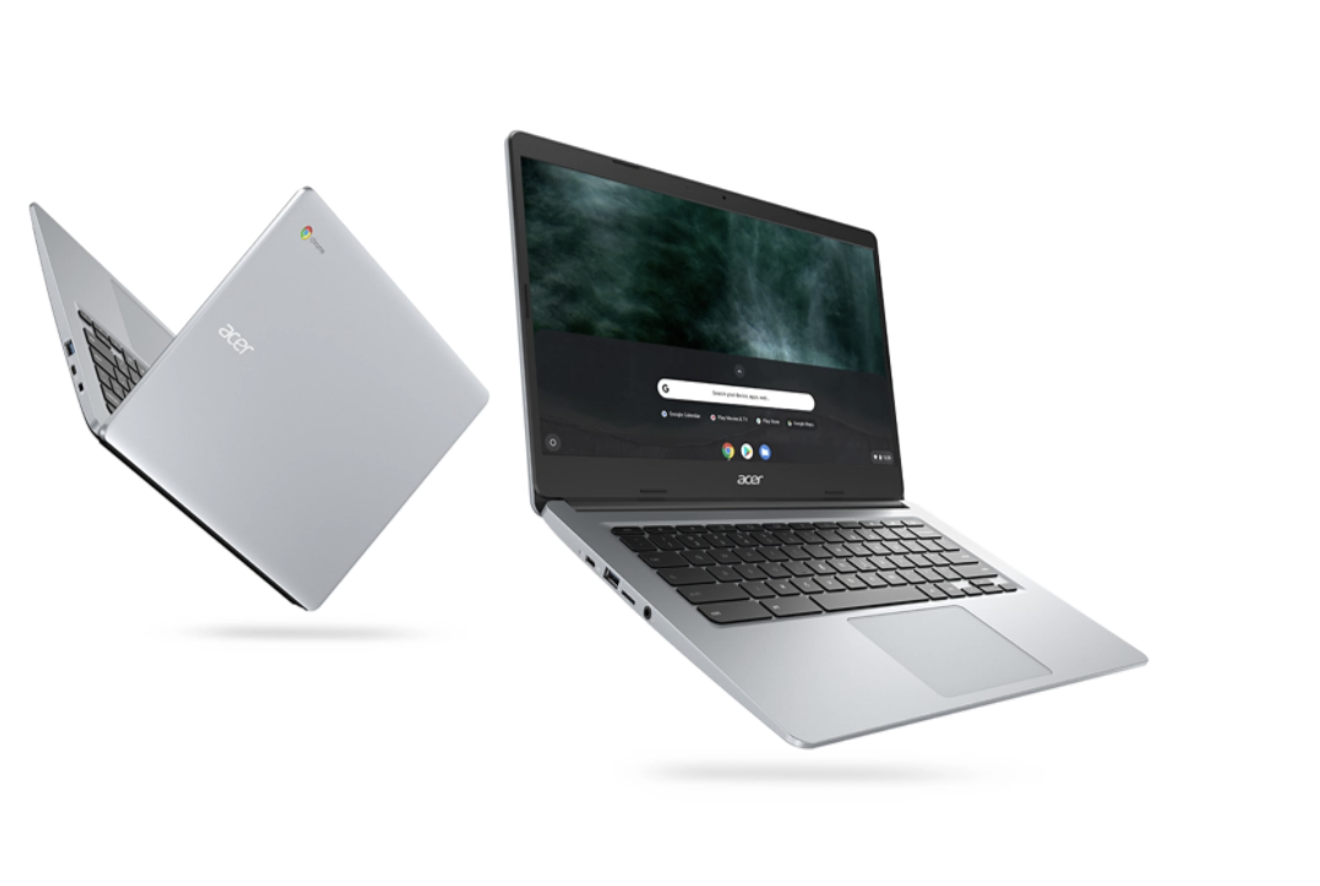
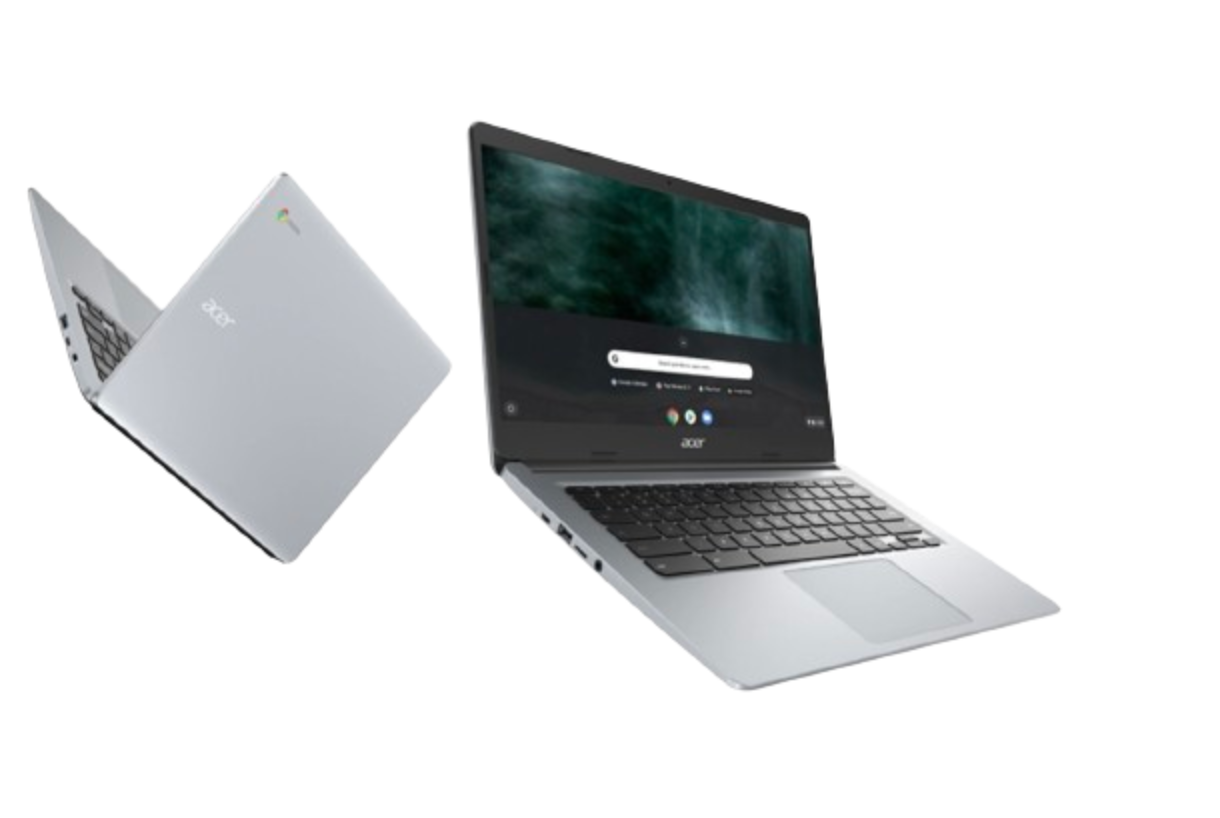
commit

diff --git a/css/index.css b/css/index.css
@@ -1,10 +1,10 @@
 *{
    margin: 0;
    padding: 0;
-    box-sizing: border-box; 
+   box-sizing: border-box; 
+    /* font-family: pruduct-sans; */
 }
 ::root{
-    --background-color: #fefefe;
     --text-color: #393939;
     --black-color: #000000;
 };
@@ -15,7 +15,8 @@ body{
 .topnav {
     display: flex;
     align-items: center;
-    margin-left: 16rem;
+    margin: 0 auto;
+    width: 75%;
     overflow: hidden;
   }
   
@@ -31,27 +32,38 @@ body{
   }
   
   .topnav a:hover {
-    background-color: #ddd;
-    color: black;
+    color: rgb(255, 0, 51);
   }
   
   .topnav a.active {
-    color: rgb(19, 19, 19);
+    color: rgb(255, 255, 255);
   }
   
   .topnav .icon {
     display: none;
   }
+  .topnav.responsive {position: relative;}
+    .topnav.responsive .icon {
+      position: absolute;
+      right: 0;
+      top: 0;
+    }
+    .topnav.responsive a {
+      float: none;
+      display: block;
+      text-align: left;
+    }
   
+  
+
+
+
   @media screen and (max-width: 600px) {
     .topnav a:not(:first-child) {display: none;}
     .topnav a.icon {
       float: right;
       display: block;
     }
-  }
-  
-  @media screen and (max-width: 600px) {
     .topnav.responsive {position: relative;}
     .topnav.responsive .icon {
       position: absolute;
@@ -63,20 +75,48 @@ body{
       display: block;
       text-align: left;
     }
+    .header .toggle-btn img{
+      width: 350px;
+    }
+    .title{
+        font-size: 1.2em;
+    }
+    .wrapper{
+        flex-direction: column;
+    }
   }
+
+
+
+
+
+
+
+
   .header{
     width: 100%;
-    min-height: 100vh;
-    padding: 0 8%;
+    height: 40vh;
+    /* padding:  0 ; */
     display: flex;
-    align-items: center;
-    justify-content: space-between;
-    position: relative;
-    overflow: hidden;
+    /* border: 1px solid #000; */
+    /* flex-direction: column; */
+    justify-content: space-around;
+    /* position: relative; */
+    /* overflow: hidden; */
+
   }
+  .wrapper{
+    border: 1px solid #000;
+    width: 100%;
+    height: 100%;
+    padding: 0 225px;
+    display: flex;
+    justify-content: space-between;
+    align-items: center;
+  }
+ 
 
-
-  .toggle-btn{
+  /* .toggle-btn{
     background: #4864ff;
     color:#fff;
     display:flex;
@@ -86,11 +126,15 @@ body{
     height: 40px;
     border-radius: 20px;
     cursor: pointer;
-  }
+  } */
   .toggle-btn img{
-    width: 700px;
+
+    width: 600px;
+    filter: drop-shadow(7px 7px 4px  #626284);
 
   }
+  
+
 
   .content{
     max-width: 800px;

diff --git a/html/index.html b/html/index.html
@@ -24,18 +24,22 @@
     </div>
 
     <div class="header">
-     <div class="content">
-        <div class="title">
-          <h1>Education</h1>
-          <h1>Technology</h1>
-          <h1><span>in</span>Cambodia</h1>
-          <p>I'm a developer and designer with a passion for website design. I always try my best to provide the best experience.</p>
+        <div class="wrapper">
+            <div class="content">
+                <div class="title">
+                  <h1>Education</h1>
+                  <h1>Technology</h1>
+                  <h1><span>in</span> Cambodia</h1>
+                  <p>We served more than 100 customers since
+                    2013 || Specifically Technologies and Sciences. </p>
+                </div>
+                  <!-- <a href="#">Reach Out</a> -->
+             </div>
+             <div class="toggle-btn" id="btn">
+                <img src="/images/Acer (1).png" alt="">
+              </div>
         </div>
-          <a href="#">Reach Out</a>
-     </div>
-     <div class="toggle-btn" id="btn">
-        <img src="/images/acer.png" alt="">
-      </div>
+     
     </div>
 
 <script src="https://cdn.jsdelivr.net/npm/bootstrap@5.3.3/dist/js/bootstrap.bundle.min.js" integrity="sha384-YvpcrYf0tY3lHB60NNkmXc5s9fDVZLESaAA55NDzOxhy9GkcIdslK1eN7N6jIeHz" crossorigin="anonymous"></script>
